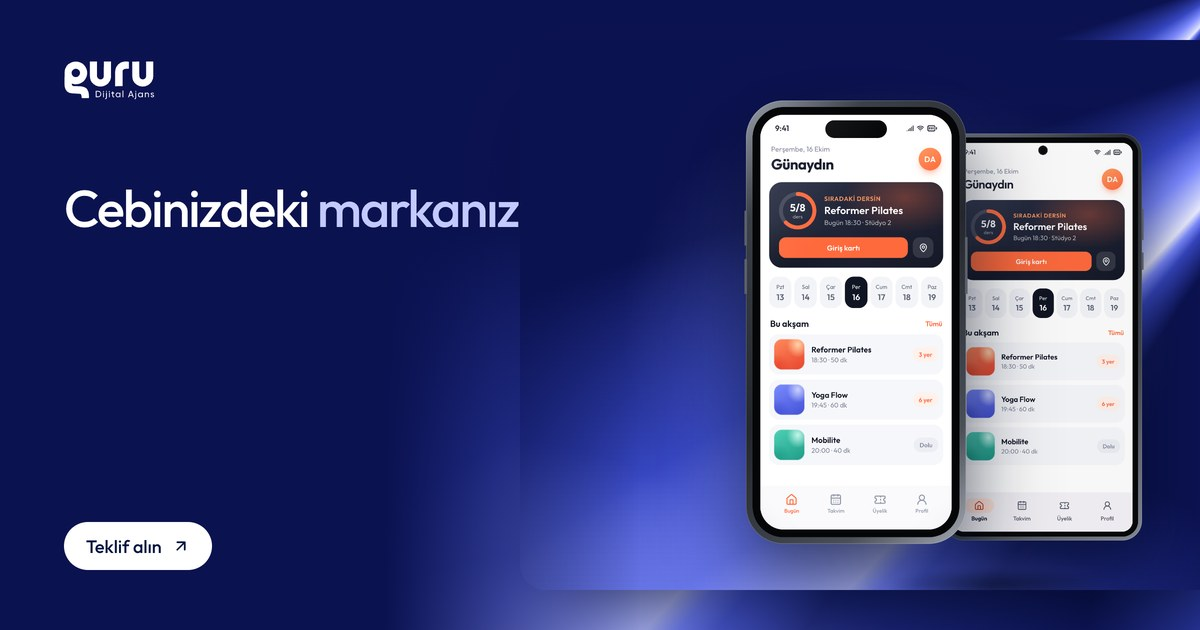
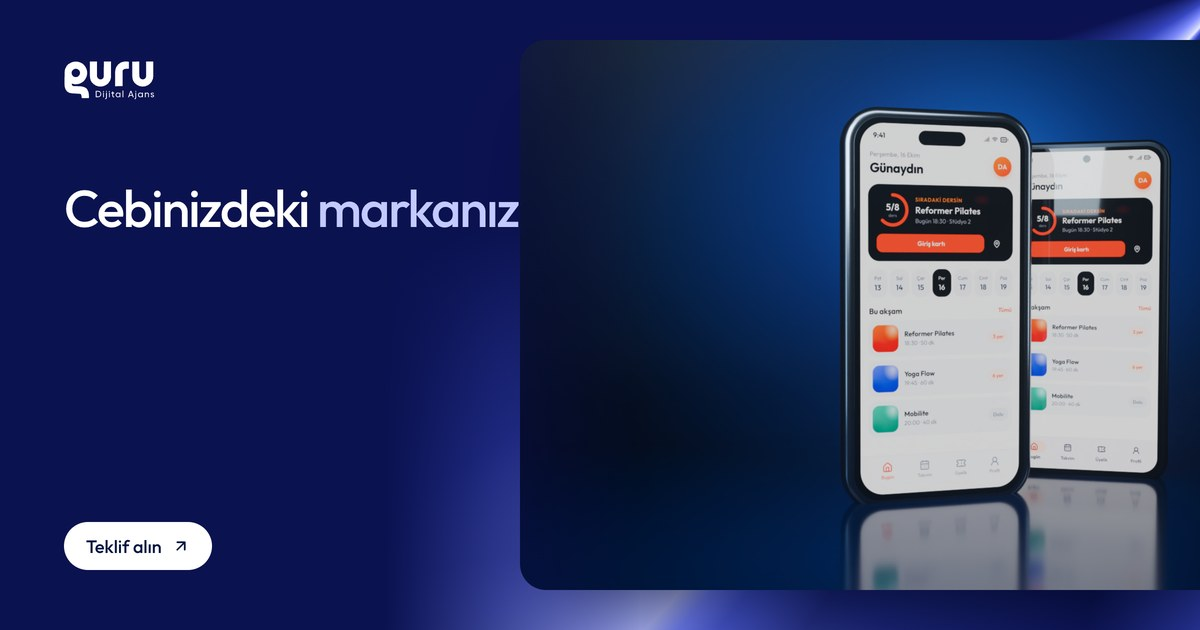
Mobil Uygulama galerisi v6: Blender'da 3B iPhone ve Android

diff --git a/src/migrations/index.ts b/src/migrations/index.ts
@@ -37,6 +37,7 @@ import * as migration_20261016_150000_calisma_takvimi from './20261016_150000_ca
 import * as migration_20261016_155000_bildirimler from './20261016_155000_bildirimler';
 import * as migration_20261016_160000_medya_agaci from './20261016_160000_medya_agaci';
 import * as migration_20261017_100000_mobil_v5 from './20261017_100000_mobil_v5';
+import * as migration_20261017_140000_mobil_v6 from './20261017_140000_mobil_v6';
 
 export const migrations = [
   {
@@ -233,5 +234,10 @@ export const migrations = [
     up: migration_20261017_100000_mobil_v5.up,
     down: migration_20261017_100000_mobil_v5.down,
     name: '20261017_100000_mobil_v5',
+  },
+  {
+    up: migration_20261017_140000_mobil_v6.up,
+    down: migration_20261017_140000_mobil_v6.down,
+    name: '20261017_140000_mobil_v6',
   },
 ];

diff --git a/src/migrations/20261017_140000_mobil_v6.ts b/src/migrations/20261017_140000_mobil_v6.ts
@@ -1,0 +1,11 @@
+import { MigrateUpArgs } from '@payloadcms/db-postgres'
+import { galeriGorseliYenile } from './data/katalog'
+
+/** Mobil Uygulama galerisi v6: Blender'da 3B iPhone ve Android (hero, kapak, 1, 2, 5; yeni adla, eskileri silinir). Şema değişikliği yok. */
+export async function up({ payload, req }: MigrateUpArgs): Promise<void> {
+  for (const key of ['hero', 'kapak', '1', '2', '5']) await galeriGorseliYenile(payload, req, 'mobil-uygulama', key, 'gercek6-')
+}
+
+export async function down(): Promise<void> {
+  /* İçerik güncellemesi geri alınmaz */
+}

diff --git a/tools/gorsel-studyo/blender/mobil.py b/tools/gorsel-studyo/blender/mobil.py
@@ -1,0 +1,140 @@
+"""Mobil Uygulama: iPhone ve Android 3B (titanyum ve grafit kasa, cam ön yüz, ekranda örnek uygulama dokusu),
+lacivert stüdyoda (Hikâyemiz ışık dili). Sahne: --scene hero | kapak | tek. Ekran dokuları:
+out/ekran-mobil2-*.png (render.mjs, DPR=3).
+  Blender -b -noaudio --python mobil.py -- --scene hero --s 96 --pct 50 --o out/mobil-hero.png"""
+import sys, os; sys.path.insert(0, os.path.dirname(os.path.abspath(__file__)))
+import importlib, g3d; importlib.reload(g3d)
+from g3d import *
+
+A = args(); f = lambda k, d: float(A.get(k, d))
+SCENE = A.get("scene", "hero")
+SIZES = {"hero": (1600, 1000), "kapak": (1200, 1500), "tek": (900, 1500)}
+W, H = SIZES[SCENE]
+sc = reset(W, H, samples=int(A.get("s", 128)), pct=int(A.get("pct", 50)))
+sc.cycles.volume_bounces = 1
+sc.world.node_tree.nodes["Background"].inputs[1].default_value = f("amb", 0.08)
+SCR = os.path.join(os.path.dirname(os.path.abspath(__file__)), "..", "out")
+
+def rr(w, h, r, n=14):
+    """Köşeleri yuvarlatılmış dikdörtgen (merkezde), saat yönünün tersine noktalar."""
+    pts = []
+    for cx, cz, a0 in ((w / 2 - r, h / 2 - r, 0), (-w / 2 + r, h / 2 - r, 90), (-w / 2 + r, -h / 2 + r, 180), (w / 2 - r, -h / 2 + r, 270)):
+        for i in range(n + 1):
+            a = math.radians(a0 + 90 * i / n)
+            pts.append((cx + r * math.cos(a), cz + r * math.sin(a)))
+    return pts
+
+def screen_mat(name, img):
+    """Ekran: görüntü dokusu ışık verir, üstünde ince parlak cam katmanı (yansımalar)."""
+    m = bpy.data.materials.new(name); m.use_nodes = True; nt = m.node_tree; N = nt.nodes; L = nt.links
+    b = N["Principled BSDF"]
+    b.inputs["Base Color"].default_value = (0, 0, 0, 1); b.inputs["Roughness"].default_value = 0.05
+    b.inputs["Coat Weight"].default_value = f("coat", 0.35); b.inputs["Coat Roughness"].default_value = 0.02
+    tx = N.new("ShaderNodeTexImage"); tx.image = bpy.data.images.load(img); tx.interpolation = "Cubic"
+    uv = N.new("ShaderNodeUVMap"); uv.uv_map = "UV"; L.new(uv.outputs["UV"], tx.inputs["Vector"])  # UV: unwrap() ekranın sınır kutusundan
+    bc = N.new("ShaderNodeBrightContrast"); bc.inputs["Contrast"].default_value = f("con", 0.22); bc.inputs["Bright"].default_value = f("bri", -0.02)
+    L.new(tx.outputs["Color"], bc.inputs["Color"]); L.new(bc.outputs[0], b.inputs["Emission Color"])
+    b.inputs["Emission Strength"].default_value = f("scr", 1.0)
+    return m
+
+def unwrap(o):
+    """Düz levhanın yerel XY sınır kutusundan UV (görüntü ekranı tam kaplar)."""
+    me = o.data; xs = [v.co.x for v in me.vertices]; ys = [v.co.y for v in me.vertices]
+    x0, x1, y0, y1 = min(xs), max(xs), min(ys), max(ys)
+    for l in list(me.uv_layers): me.uv_layers.remove(l)
+    uvl = me.uv_layers.new(name="UV"); me.uv_layers.active = uvl; uvl.active_render = True
+    for lp in me.loops:
+        c = me.vertices[lp.vertex_index].co
+        uvl.data[lp.index].uv = ((c.x - x0) / (x1 - x0), (c.y - y0) / (y1 - y0))
+
+def phone(kind, img, loc, yaw=0.0, tilt=0.0, scale=1.0):
+    """Gövde XZ düzleminde ayakta, ön yüz -Y'ye bakar. kind: ios | android"""
+    w, h, t = (0.715, 1.47, 0.082) if kind == "ios" else (0.70, 1.50, 0.085)
+    rad = 0.115 if kind == "ios" else 0.085
+    parts = []
+    frame = profile_solid(rr(w, h, rad), t, bevel=0.03 if kind == "ios" else 0.018, name=f"{kind}-kasa", res=8)
+    frame_col = lin("#a7acb5") if kind == "ios" else lin("#3a3e46")
+    assign(frame, mat(f"{kind}-kasa", frame_col, rough=0.22 if kind == "ios" else 0.3, metal=1.0))
+    parts.append(frame)
+    # Ön cam (siyah çerçeve): kasanın ön yüzüne yapışık ince levha
+    bez = 0.012
+    front = profile_solid(rr(w - bez * 2, h - bez * 2, rad - bez), 0.004, bevel=0.0015, name=f"{kind}-cam")
+    front.location.y = -t / 2 - 0.001
+    assign(front, mat(f"{kind}-cam", lin("#050608"), rough=0.04, coat=1.0))
+    parts.append(front)
+    # Ekran: siyah çerçevenin içinde, görüntü dokulu
+    sb = 0.022 if kind == "ios" else 0.016
+    sw, sh = w - bez * 2 - sb * 2, h - bez * 2 - sb * 2
+    scr = profile_solid(rr(sw, sh, rad - bez - sb + 0.01), 0.002, bevel=0.0, name=f"{kind}-ekran", res=2)
+    scr.location.y = -t / 2 - 0.0035
+    unwrap(scr)
+    assign(scr, screen_mat(f"{kind}-ekran", img))
+    parts.append(scr)
+    # Kamera: iOS'ta dinamik ada, Android'de delik
+    if kind == "ios":
+        isl = profile_solid(rr(0.19, 0.055, 0.0275), 0.002, bevel=0.0, name="ada", res=2)
+        isl.location = (0, -t / 2 - 0.005, sh / 2 - 0.05)
+    else:
+        isl = profile_solid(rr(0.034, 0.034, 0.017), 0.002, bevel=0.0, name="delik", res=2)
+        isl.location = (0, -t / 2 - 0.005, sh / 2 - 0.035)
+    assign(isl, mat("kamera", lin("#020203"), rough=0.1, coat=1.0))
+    parts.append(isl)
+    # Yan tuşlar
+    for z0, ln in ((0.22, 0.16), (0.42, 0.09)) if kind == "ios" else ((0.25, 0.2), (0.48, 0.1)):
+        bt = rbox(0.012, 0.03, ln, (w / 2 + 0.003, 0, z0), bevel=0.005, seg=4, name="tus")
+        assign(bt, mat("tus", frame_col, rough=0.25, metal=1.0)); parts.append(bt)
+    # Ebeveyn boş nesneye bağla, konumla
+    e = bpy.data.objects.new(f"{kind}-telefon", None); link(e)
+    for p in parts: p.parent = e
+    e.location = (loc[0], loc[1], loc[2] + h / 2 * scale); e.rotation_euler = (math.radians(tilt), 0, math.radians(yaw)); e.scale = (scale,) * 3
+    return e
+
+BACK = 7.0; HAL = f("halo", 1.0)
+spots = [
+    ((2.2, BACK, 3.0), (6.5, 9, 4.6), lin("#2a4fd0"), 0.55 * HAL, 1.5, 0),
+    ((2.4, BACK, 2.8), (2.8, 9, 2.8), BLUE, 0.4 * HAL, 2.0, 0),
+    ((0, -2, 0), (7, 6, 9), lin("#12419b"), 0.05 * HAL, 2.0, 0),
+]
+if SCENE != "tek":
+    assign(cyclorama(back=BACK, r=4.5), lit_wall(NAVY, rough=f("floor", 0.14), spots=spots, wall_rough=0.7))
+else:
+    sc.render.film_transparent = True  # tek telefon: saydam zemin, HTML karesine yerleşir
+
+IOS = os.path.join(SCR, "ekran-mobil2-ios.png"); AND = os.path.join(SCR, "ekran-mobil2-android.png")
+S = f("ps", 2.0)  # telefon ölçeği (sahne birimi)
+if SCENE == "hero":
+    OX = f("ox", 1.25)
+    phone("android", AND, (OX + 1.25, 0.7, 0), yaw=f("ya", -18), scale=S)
+    phone("ios", IOS, (OX - 0.2, -0.2, 0), yaw=f("yi", 14), scale=S * 1.06)
+    tgt = (OX + 0.5, 0, 1.5)
+    softbox("PanoUst", (OX, -2.4, 5.2), tgt, size=(4.0, 1.2), strength=f("sb1", 4))
+    softbox("PanoSol", (OX - 3.2, -2.6, 2.2), tgt, size=(0.7, 4.0), strength=f("sb2", 3.2), color=SKY)
+    softbox("PanoSag", (OX + 3.4, -1.2, 2.6), tgt, size=(0.6, 3.6), strength=f("sb3", 4.5))
+    area("Anahtar", (OX - 2.0, -4.0, 4.0), tgt, size=(3, 3), energy=f("key", 260), color=ICE)
+    if f("fog", 0.012) > 0: fog(density=f("fog", 0.012))
+    camera((f("cx", 0.2), -9.0, f("camz", 1.9)), (f("tx", 0.75), 0, f("tz", 1.5)), lens=f("lens", 44))
+elif SCENE == "kapak":
+    phone("android", AND, (0.55, 0.45, 0), yaw=-12, scale=S)
+    phone("ios", IOS, (-0.45, -0.2, 0), yaw=10, scale=S * 1.06)
+    tgt = (0, 0, 1.2)
+    softbox("PanoUst", (0, -2.4, 5.2), tgt, size=(4.0, 1.2), strength=4)
+    softbox("PanoSol", (-3.0, -2.6, 2.2), tgt, size=(0.7, 4.0), strength=3.2, color=SKY)
+    softbox("PanoSag", (3.2, -1.2, 2.6), tgt, size=(0.6, 3.6), strength=4.5)
+    area("Anahtar", (-2.0, -4.0, 4.0), tgt, size=(3, 3), energy=f("key", 260), color=ICE)
+    if f("fog", 0.035) > 0: fog(density=f("fog", 0.035))
+    camera((0, -9.0, f("camz", 2.6)), (0, 0, f("tz", 2.15)), lens=f("lens", 44))
+
+elif SCENE == "tek":
+    img = os.path.join(SCR, f"ekran-mobil2-{A.get('img', 'ios')}.png")
+    kind = A.get("kind", "ios")
+    phone(kind, img, (0, 0, 0), yaw=f("yaw", 12), scale=S)
+    tgt = (0, 0, 1.5)
+    softbox("PanoUst", (0, -2.4, 5.2), tgt, size=(4.0, 1.2), strength=f("sb1", 4))
+    softbox("PanoSol", (-3.0, -2.6, 2.2), tgt, size=(0.7, 4.0), strength=f("sb2", 3.2), color=SKY)
+    softbox("PanoSag", (3.2, -1.2, 2.6), tgt, size=(0.6, 3.6), strength=f("sb3", 4.5))
+    area("Anahtar", (-2.0, -4.0, 4.0), tgt, size=(3, 3), energy=f("key", 260), color=ICE)
+    sc.world.node_tree.nodes["Background"].inputs[0].default_value = lin("#1b2a6b")
+    sc.world.node_tree.nodes["Background"].inputs[1].default_value = f("amb", 0.5)
+    camera((0, -9.0, 1.5), (0, 0, 1.5), lens=f("lens", 70))
+
+render(A.get("o", os.path.join(os.path.dirname(os.path.abspath(__file__)), "out", f"mobil-{SCENE}.png")))
